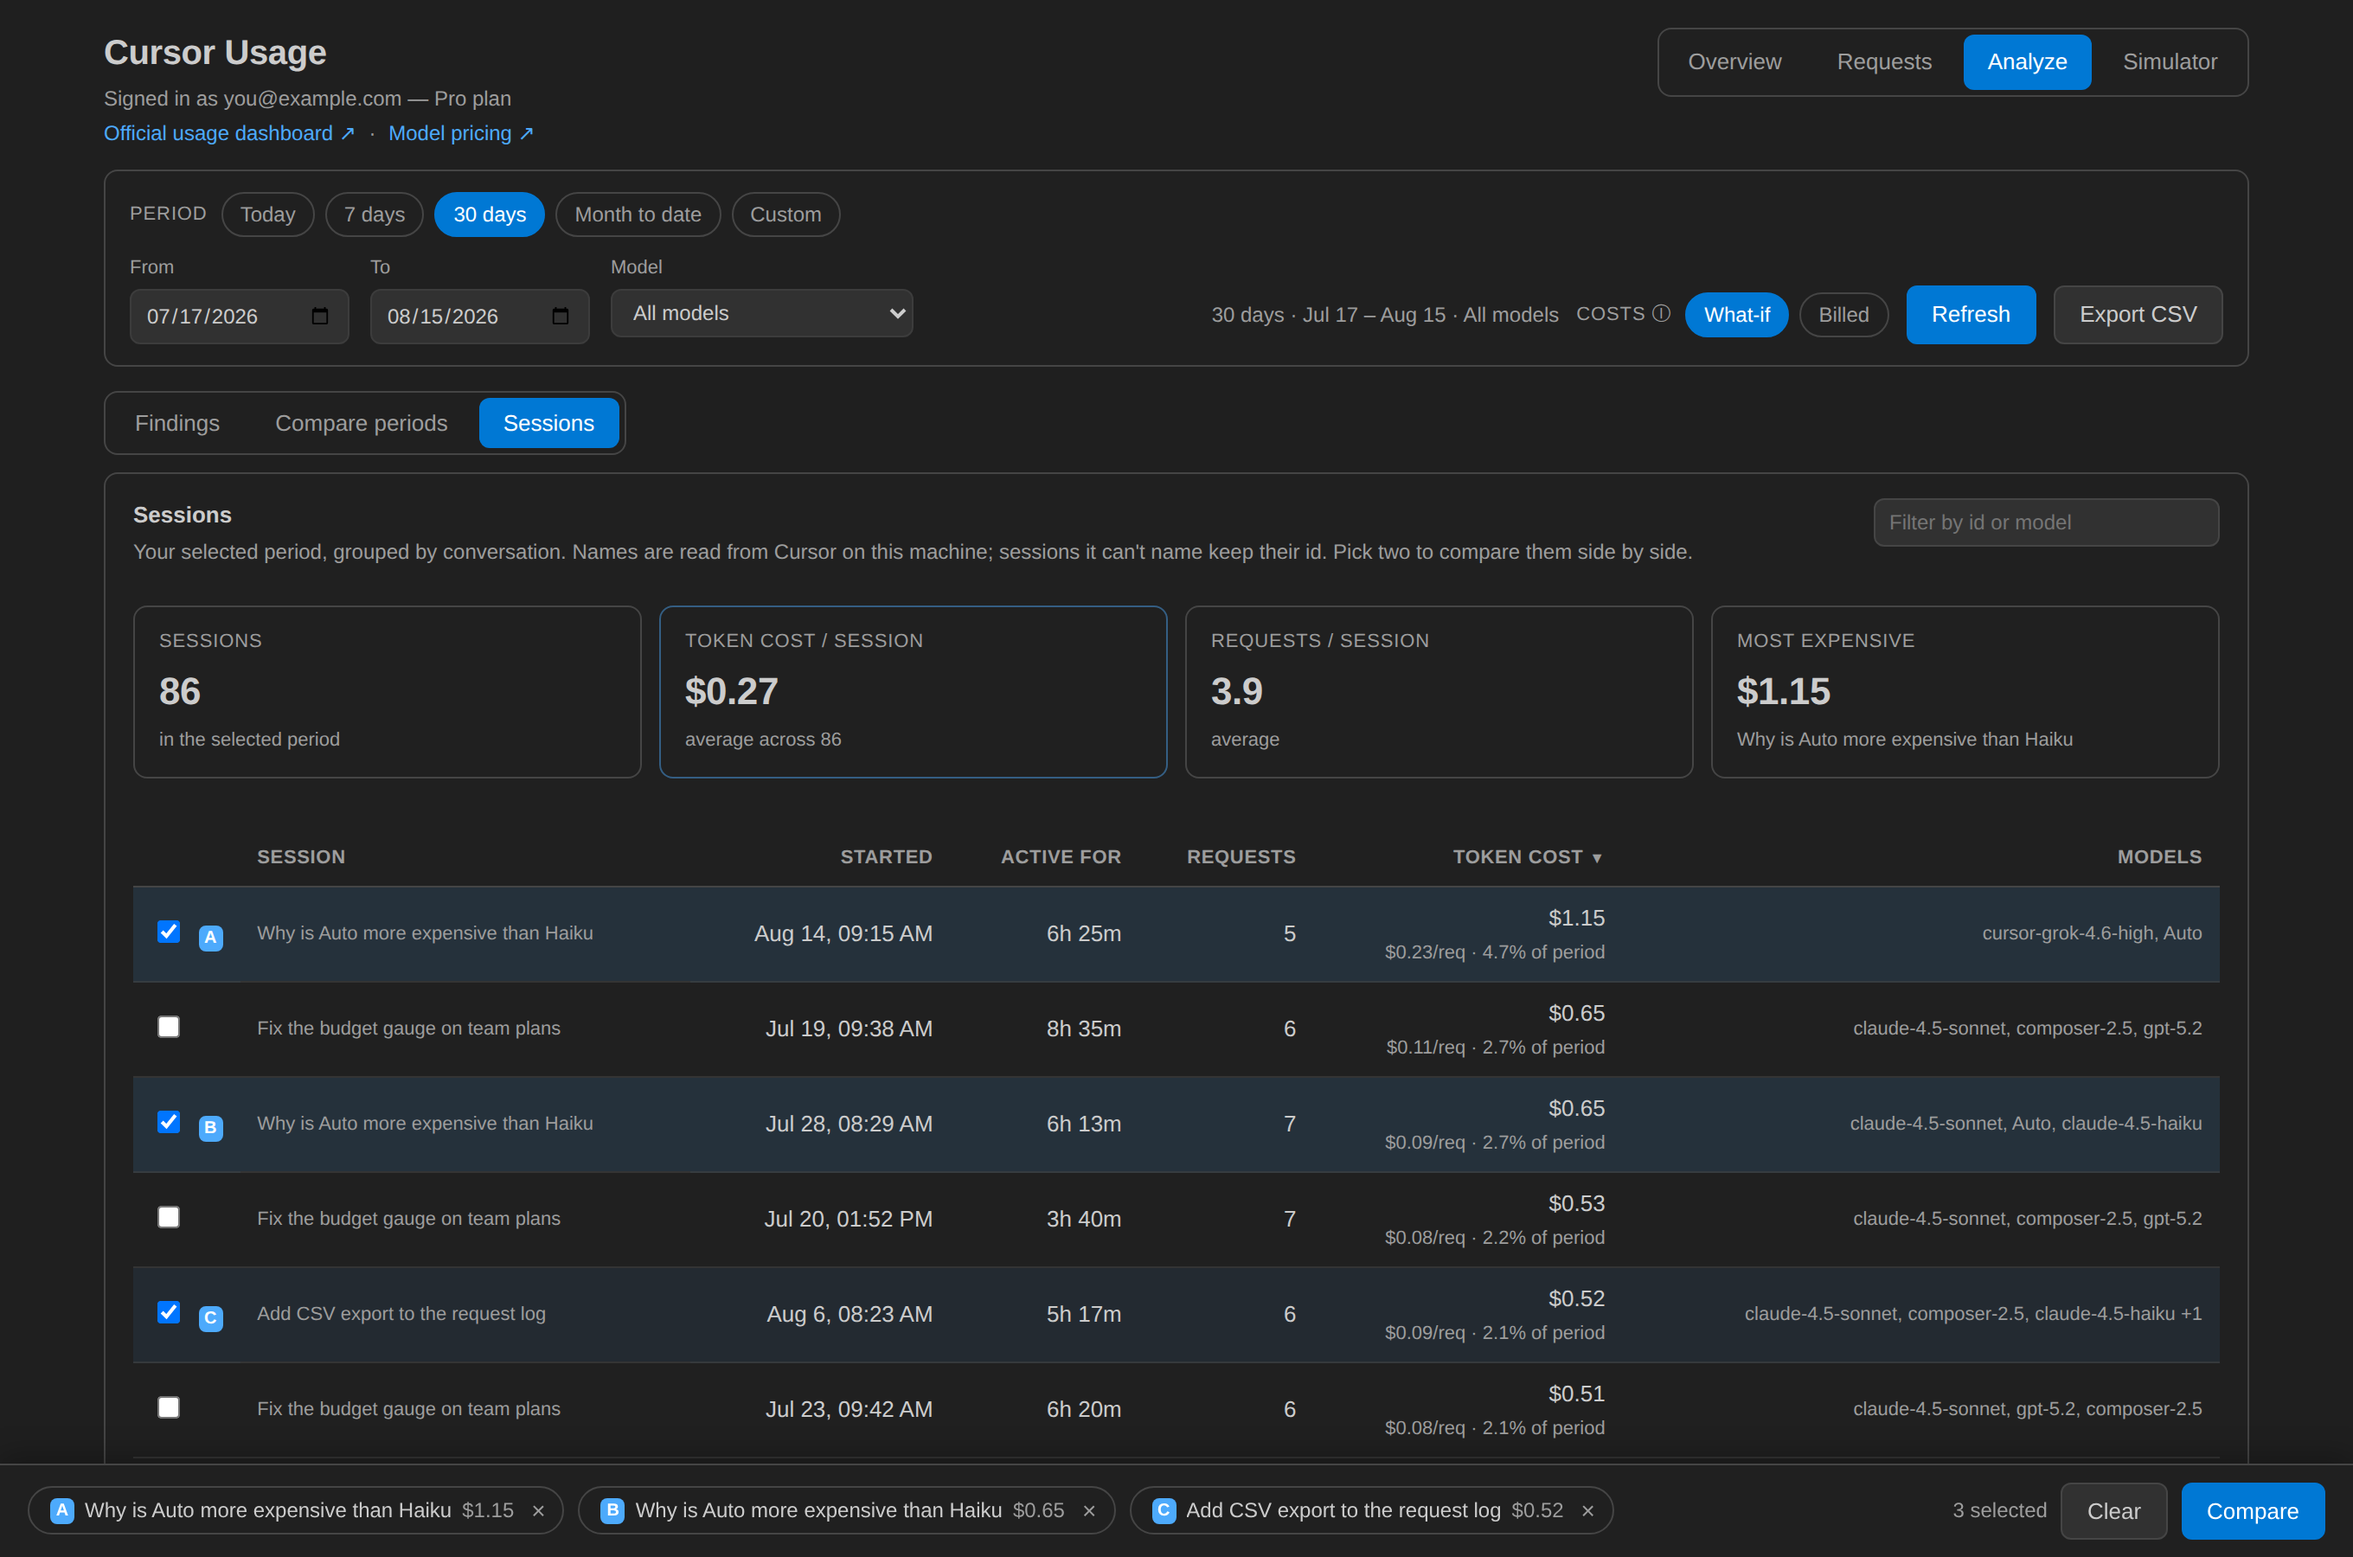
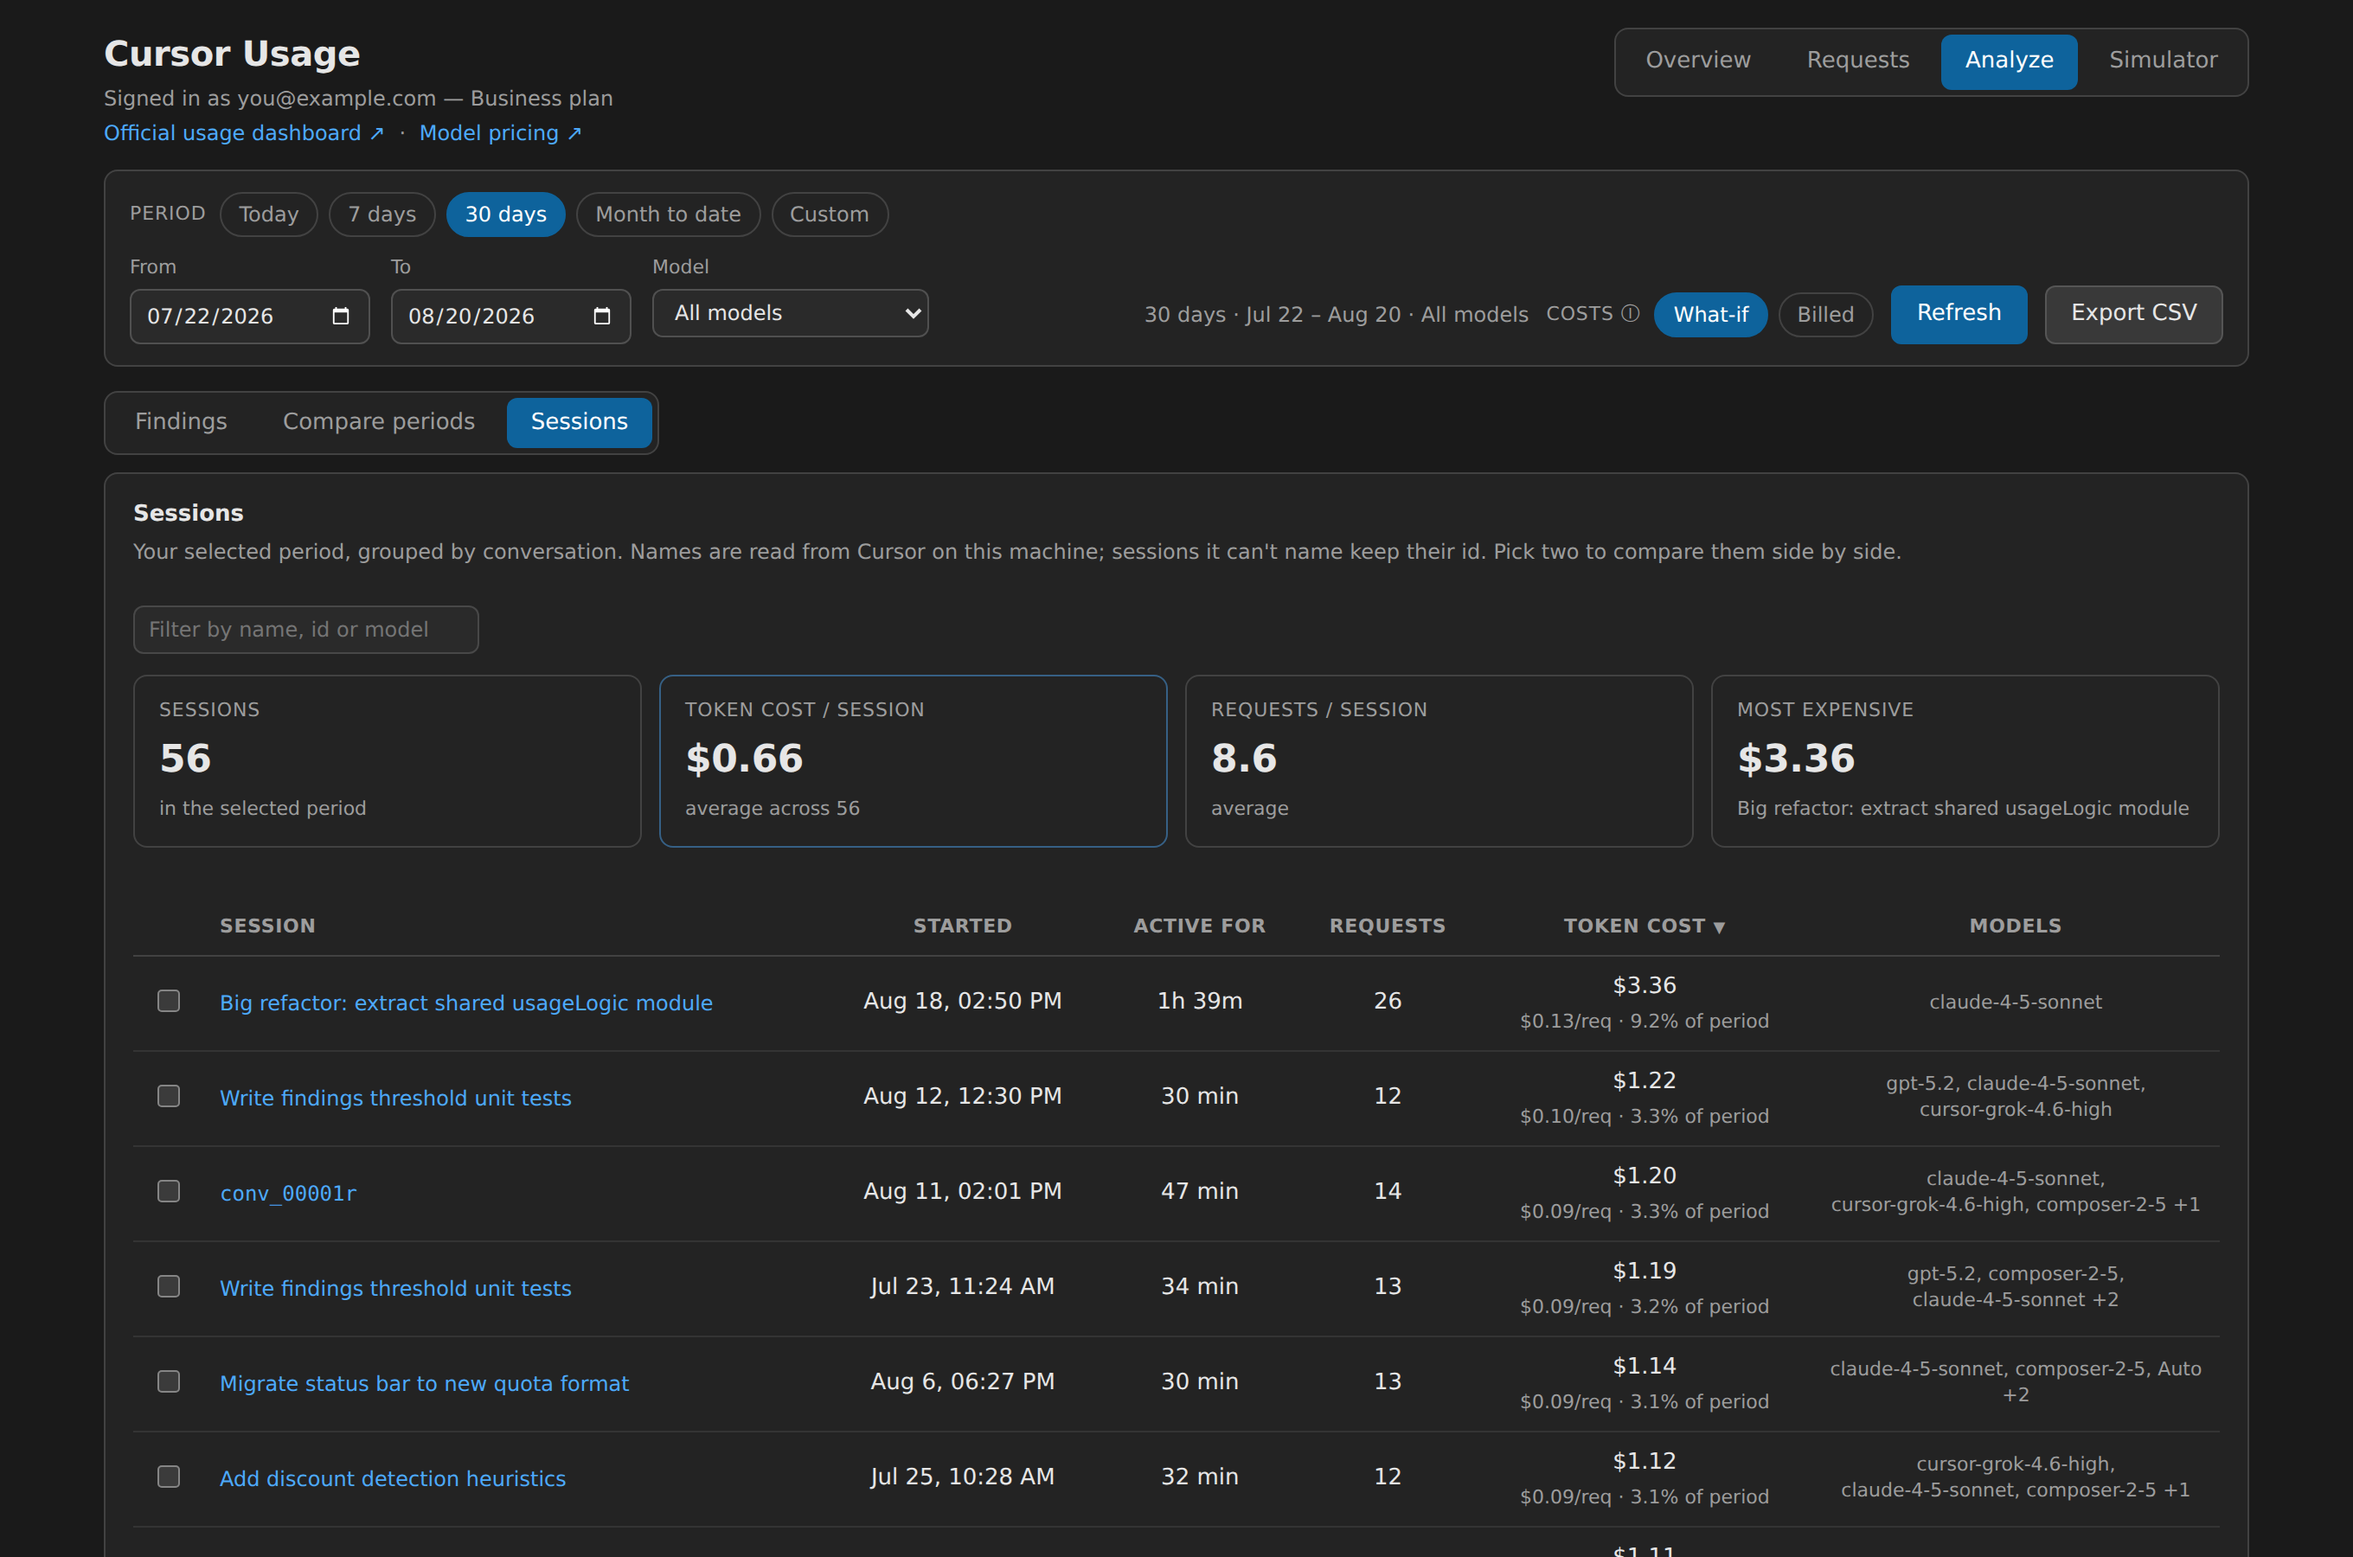
Regenerate every README screenshot against the current build
All ten dated from before this branch's work, so none of them showed the
Session column, the request-log's click-to-expand breakdown, the finding
markers, "Open in browser", or any of the fixes from the last two commits
(the billing banner that now actually appears, the styled buttons, the
threshold that quotes its own number). The README's prose already described
all of this; the pictures next to it didn't.

Regenerated by serving the real getBrowserDashboardHtml() — the standalone
page, not the demo harness — against the committed demo fixtures, since
that's the one with class="standalone", which is what makes the dark
palette apply at all (it's scoped to body.standalone under a
prefers-color-scheme query). The harness has no such class and rendered
light-mode, which is not what any existing screenshot looked like.

Two variants of the Overview shot, matching what the two existing files
have always shown: a Pro-plan/fixed-quota state for screenshot-overview.png
(synthesized on top of the committed fixture — the pipeline's default is a
Business/budget-metered account) and the committed Business-plan fixture
as-is for screenshot-budget.png.

Folded the CHANGELOG's "Unreleased" section into 0.8.0 — nothing at that
version has published yet, so this is one release, not two — and updated
the source-layout paragraph in README's Contributing section, which never
mentioned browserServer.ts, rpcDispatcher.ts, conversations.ts, or any of
logic.js/insights.js/brief.js by name.
[…]

diff --git a/README.md b/README.md
@@ -209,7 +209,7 @@ npm run watch     # rebuild on change
 npm run package   # build a local .vsix (Extensions: Install from VSIX…)
 ```
 
-Layout: `src/extension.ts` (activation), `src/auth.ts` + `src/authCore.ts` (session resolution), `src/api.ts` (cursor.com client), `src/service.ts` (shared data layer), `src/panel.ts` + `src/html.ts` (webview + RPC bridge), `src/statusBar.ts`, `src/webview/` (dashboard UI).
+Layout: `src/extension.ts` (activation), `src/auth.ts` + `src/authCore.ts` (session resolution), `src/api.ts` (cursor.com client), `src/service.ts` (shared data layer), `src/conversations.ts` (session names, read locally from Cursor's own database), `src/panel.ts` + `src/html.ts` (webview markup), `src/rpcDispatcher.ts` (the RPC methods both transports serve), `src/browserServer.ts` (the loopback HTTP server behind "Open in Browser"), `src/statusBar.ts`, `src/webview/` (dashboard UI: `main.js` the app, `logic.js` pricing/session math, `insights.js` the findings engine, `brief.js` the Cursor Chat briefs).
 
 Releases are automated: bumping `version` in `package.json` on `main` triggers the [publish workflow](https://github.com/iair0007/cursor-usage/blob/main/.github/workflows/publish.yml), which builds the `.vsix` and publishes it to Open VSX.
 

diff --git a/CHANGELOG.md b/CHANGELOG.md
@@ -3,11 +3,11 @@
 All notable user-facing changes. Earlier releases predate this file; see the
 [commit history](https://github.com/iair0007/cursor-usage/commits/main) for those.
 
-## Unreleased
+## 0.8.0 — 2026-08-20
 
-A full review pass over the browser-dashboard branch. Everything below rendered
-or read wrongly without ever throwing, which is why nothing in the suite caught
-any of it; each fix carries a regression test.
+A full review pass over this release before publishing it. Everything below
+rendered or read wrongly without ever throwing, which is why nothing in the
+suite caught any of it; each fix carries a regression test.
 
 - **The banner explaining how your plan bills now appears when you open the
   request log.** It was drawn only as a tail of the KPI render, and switching to
@@ -50,7 +50,7 @@ any of it; each fix carries a regression test.
   readonly brief previews are named too, instead of reading as an anonymous
   multi-line text field.
 
-## 0.8.0 — 2026-08-17
+### Browser dashboard, sessions, and everything else new in this release
 
 - Three fixes to the session comparison's model table. A long model name plus a
   discount badge overflowed the fixed-width label column and ran over the figure
